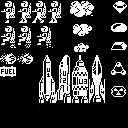
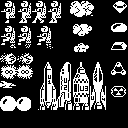
more alien types

Changed region(s): [[0.2812, 0.4062, 0.8438, 0.875], [0.0, 0.5, 0.25, 0.6875], [0.0, 0.75, 0.25, 0.875]]

diff --git a/jetpac/jetpac.cpp b/jetpac/jetpac.cpp
@@ -12,7 +12,7 @@ Surface *backdrop;
 int screenbottom,dir,fire;
 int fuelled,fuelgrabbed,gem;
 int lives,delay,rocketsmade;
-int playerdied, takeoff = -10;
+int playerdied, takeoff;
 
 Point player,fuelpos,gempos;
 Vec2 speed;
@@ -26,13 +26,13 @@ alien aliens[NUMALIENS];
 
 //costumes
 Rect explode[] = { Rect(8,0,4,3), Rect(8,3,4,2), Rect(8,5,4,2) };
-Rect meteor [] = { Rect(0,6,2,2), Rect(2,6,2,2) };
+Rect meteor [] = { Rect(0,6,2,2), Rect(2,6,2,2) }; // 6,8,10,12
 Rect jetmanwalk [] = { Rect(0,0,2,3), Rect(2,0,2,3), Rect(4,0,2,3), Rect(6,0,2,3) };
 Rect jetmanfly []  = { Rect(0,3,2,3), Rect(2,3,2,3) };
 Rect gems [] = { Rect(30,0,2,2), Rect(30,2,2,2), Rect(30,7,2,2), Rect(30,4,2,2), Rect(30,10,2,2)};
-Rect fuel = Rect(0,8,3,2);
+Rect fuel = Rect(30,12,2,2);
 
-Rect rocketparts[3] = { Rect(5,11,2,2), Rect(5,8,2,3), Rect(5,6,2,3) };
+Rect rocketparts[3] = { Rect(5,12,2,2), Rect(5,10,2,2), Rect(5,8,2,2) };
 Point rocketpos[3] ;
 int rocketgrabbed[3];
 
@@ -108,7 +108,7 @@ void newalien (int n) {
 void colorsprites(Pen color) { screen.sprites->palette[1] = color; } 
 
 bool indropzone ( int x ) { 
-	int zone = screen.bounds.w * 0.62;
+	int zone = screen.bounds.w * 0.64;
 	return (x > zone && x < zone + 10); 
 }
 
@@ -123,6 +123,8 @@ void reset_game() {
 
   lives = 3; 
   rocketsmade = 1;
+  fuelled = 0; 
+  takeoff = -10;
   player = Point(screen.bounds.w / 2, screen.bounds.h - 50);
   fuelpos = Point(RND(screen.bounds.w),10);
   gempos = Point(RND(screen.bounds.w),10);
@@ -144,7 +146,6 @@ void init() {
 
   //make black transparent
   screen.sprites->palette[0] = Pen(0,0,0,0); 
-
 
   //explosion noise
   channels[2].waveforms   = Waveform::NOISE;
@@ -169,7 +170,6 @@ void init() {
   	  }
   reset_game();
 }
-
 
 void gameloop() {
   Rect costume;
@@ -210,7 +210,7 @@ void gameloop() {
         if ((fuelled >= 3) && RND(2)) colorsprites(white);
         screen.sprite(rocketparts[i],pos);
         rocketpos[i] = pos;
-        pos.y -= 24;
+        pos.y -= 16;
         }
   // handle grabbing & dropping rocketparts
   for (int i=rocketsmade; i < 3 ; i++) {
@@ -268,7 +268,7 @@ void gameloop() {
 		lives--;
 		}
   screen.pen = white;
-  screen.text(std::to_string(lives),minimal_font,Vec2(100,10));
+  screen.text(std::to_string(lives+1),minimal_font,Vec2(85,0));
   if (lives < 0) reset_game();
 }
 
@@ -336,7 +336,7 @@ if (time % 4 <2) {
                         rocketpos[i].y +=20;
                         rocketgrabbed[i] = 0;}
                 }
-        if (!hitplatform(rocketpos[i] + Point(0,10)) ) {
+        if (!hitplatform(rocketpos[i])) {
                 rocketpos[i].y++;
                 // stack rocketpart on top of last one
                 if (indropzone(rocketpos[i].x) && (rocketpos[i].y > rocketpos[i-1].y - 16)) { 
@@ -349,11 +349,12 @@ if (time % 4 <2) {
   if (takeoff > -10) {
 	  takeoff++;
   	  if (takeoff > screen.bounds.h) {
-              fuelled = 0; 
-	      takeoff = -10;
+	      // change rocket type
 	      int rx = rocketparts[0].x; // rocketsprites at 5,7,9,11
 	      if (rx == 11) rx = 5; else rx += 2;
 	      rocketparts[0].x = rocketparts[1].x = rocketparts[2].x = rx;
+	      //change alien type
+  	      meteor[0].y = meteor[1].y = 6 + RND(4) * 2;
   	      reset_game();
           }
   }
